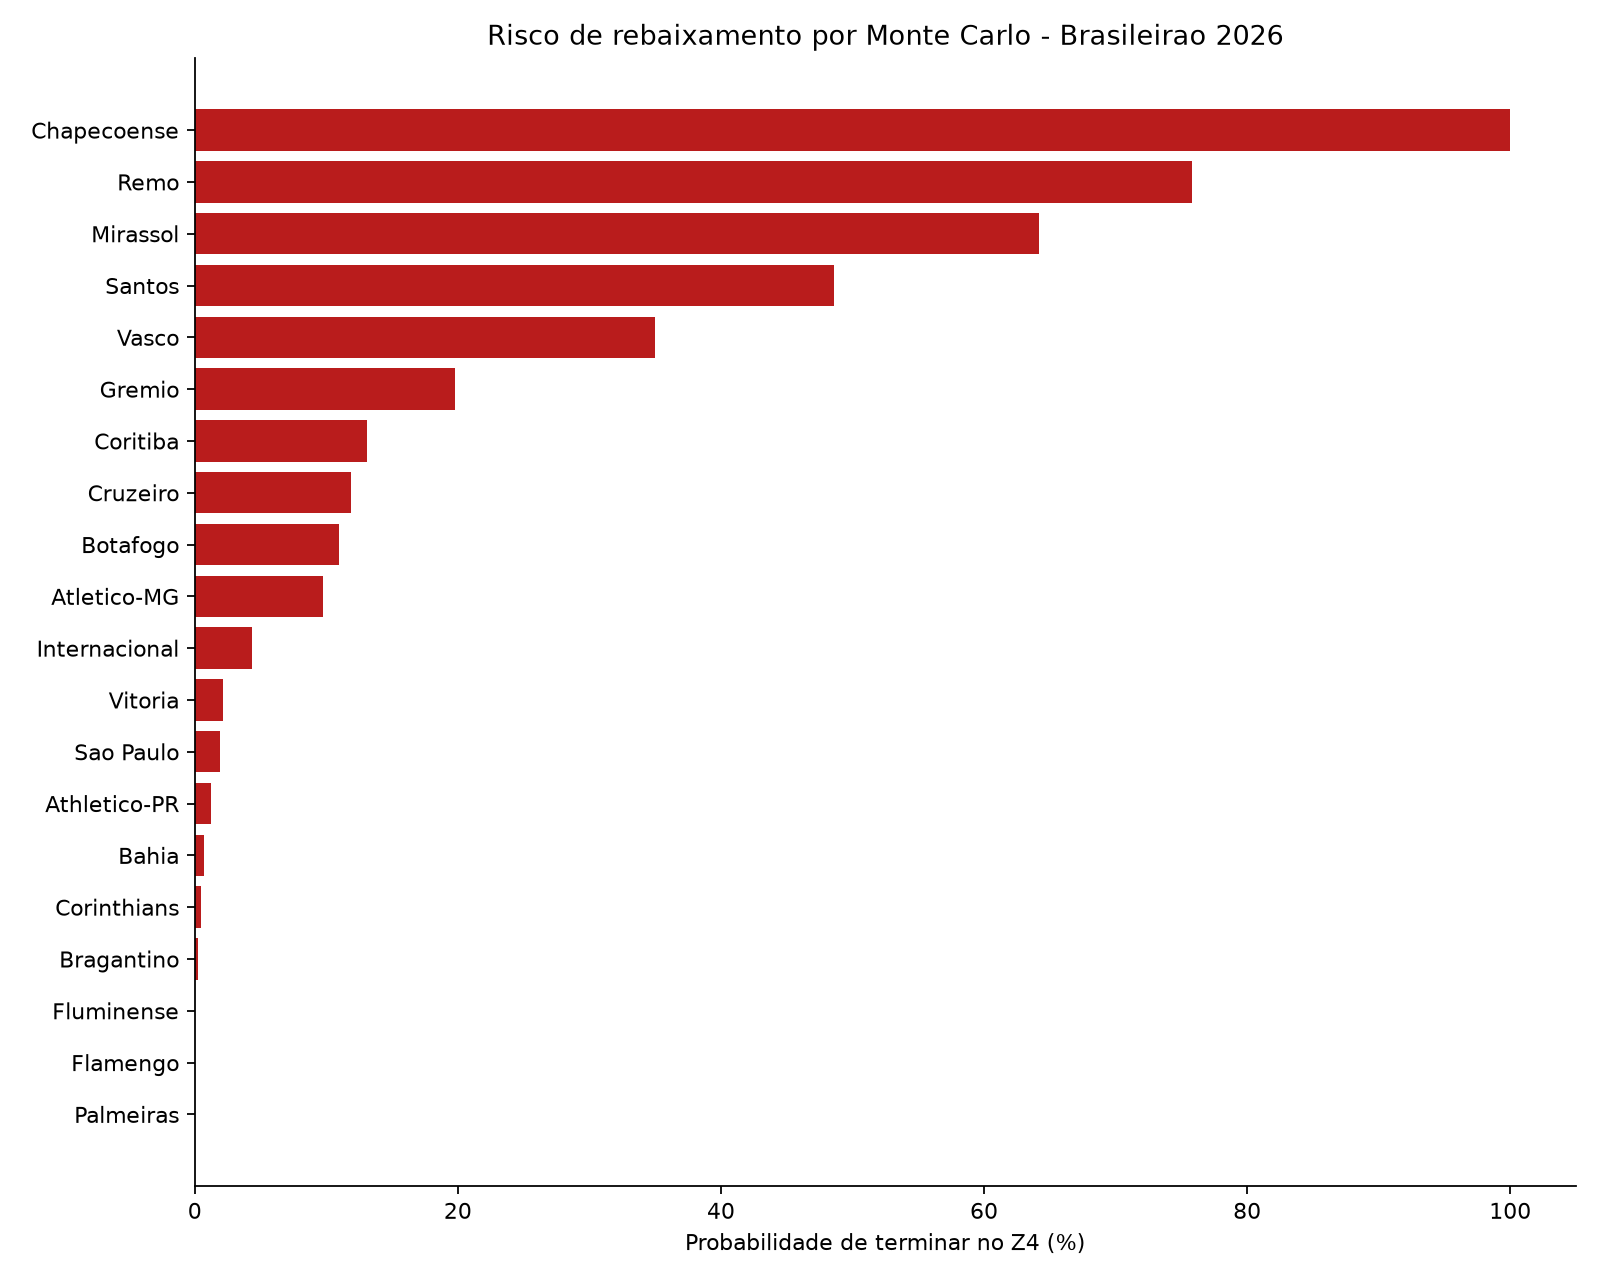
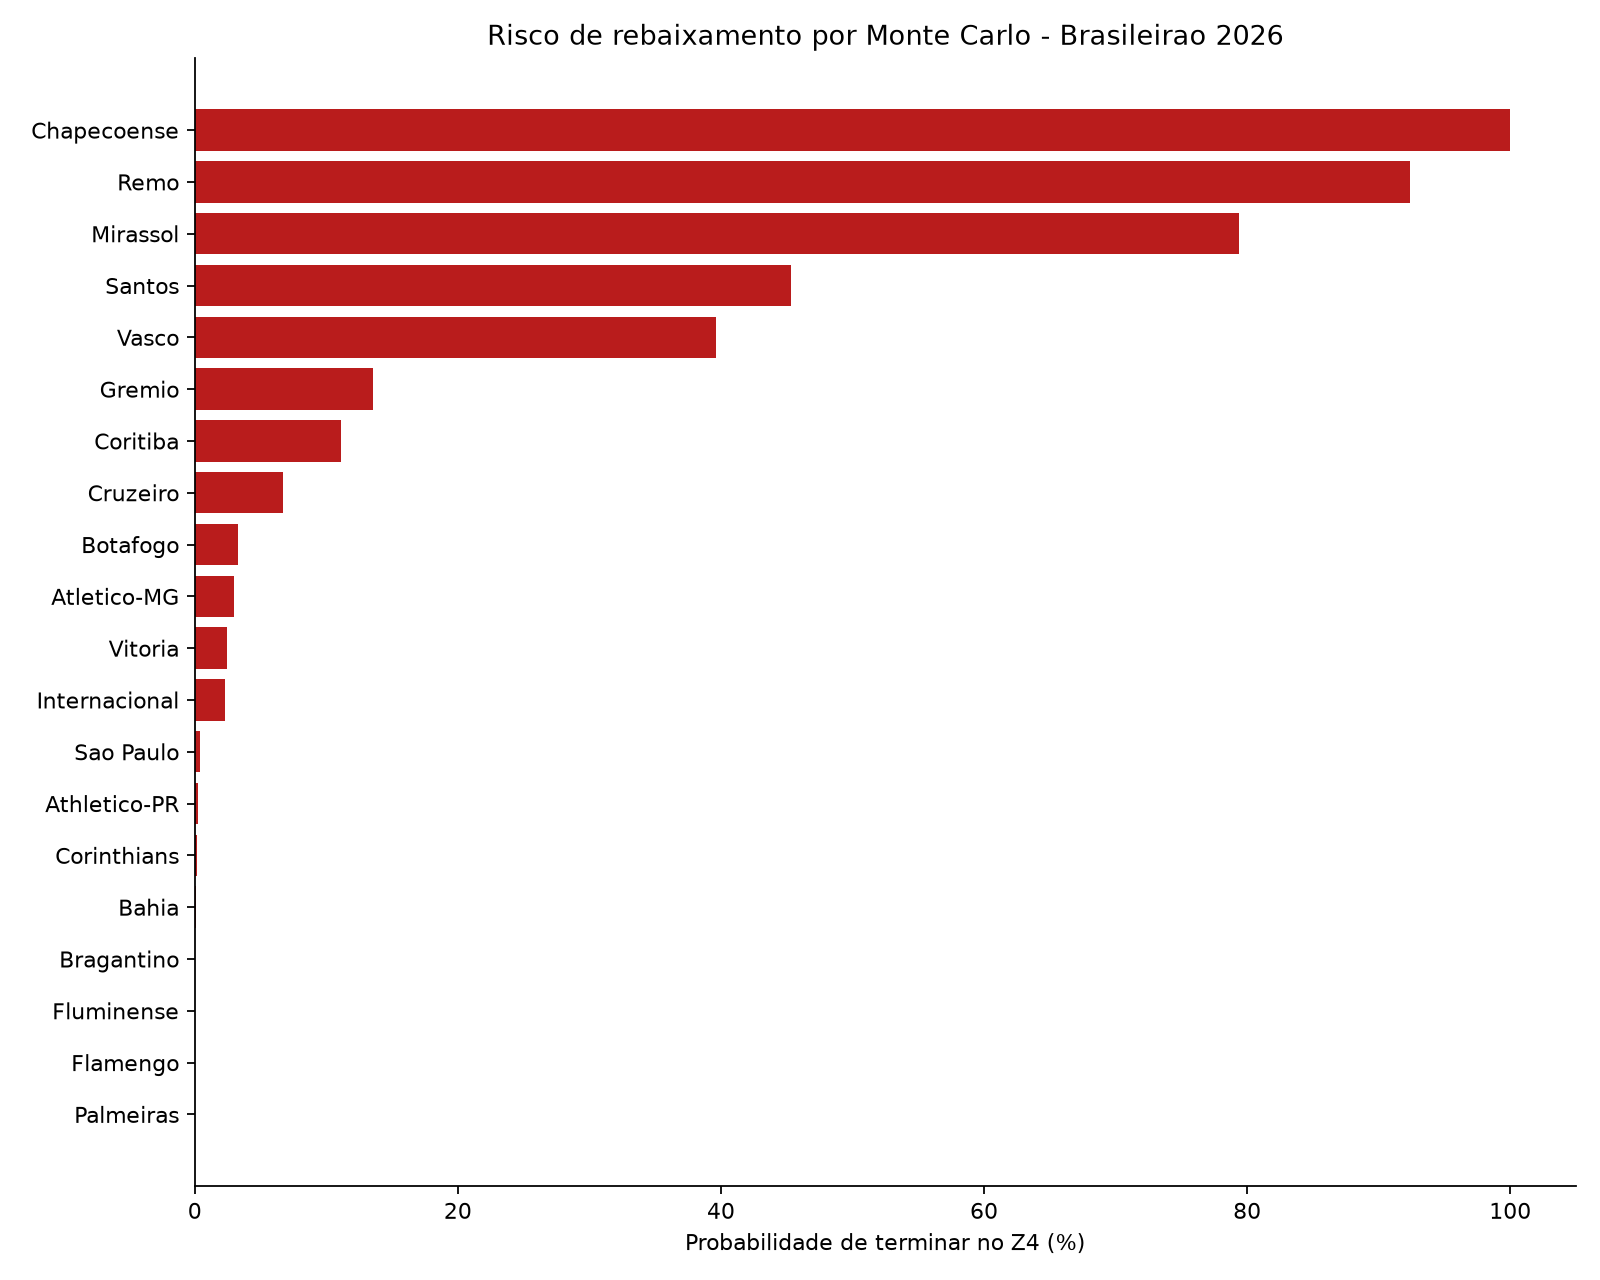
Enriquece simulacao com contexto dos clubes

diff --git a/src/simulacao_monte_carlo.py b/src/simulacao_monte_carlo.py
@@ -13,6 +13,13 @@ from risco_rebaixamento import carregar_partidas
 HOME_ADVANTAGE = 60
 INITIAL_ELO = 1500
 K_FACTOR = 28
+CONTEXT_WEIGHTS = {
+    "squad_strength_0_100": 2.2,
+    "serie_a_last_5": 18.0,
+    "previous_season_score": 0.9,
+    "recent_points_last5": 8.0,
+    "recent_goal_diff_last5": 8.0,
+}
 
 
 def normalizar_time(nome: str) -> str:
@@ -75,6 +82,41 @@ def ajustar_elo_com_snapshot(ratings: dict[str, float], tabela: pd.DataFrame) ->
     return ajustados
 
 
+def carregar_contexto(path: Path | None) -> pd.DataFrame | None:
+    if path is None or not path.exists():
+        return None
+    contexto = pd.read_csv(path)
+    contexto["time"] = contexto["time"].map(normalizar_time)
+    tier_bonus = contexto["previous_season_tier"].map({"A": 0, "B": -12}).fillna(-20)
+    contexto["previous_season_score"] = 21 - contexto["previous_season_position"] + tier_bonus
+    return contexto
+
+
+def ajustar_elo_com_contexto(
+    ratings: dict[str, float],
+    contexto: pd.DataFrame | None,
+) -> dict[str, float]:
+    if contexto is None:
+        return ratings
+    ajustados = ratings.copy()
+    medias = contexto[
+        [
+            "squad_strength_0_100",
+            "serie_a_last_5",
+            "previous_season_score",
+            "recent_points_last5",
+            "recent_goal_diff_last5",
+        ]
+    ].mean()
+    for _, row in contexto.iterrows():
+        time = normalizar_time(row["time"])
+        ajuste = 0.0
+        for col, peso in CONTEXT_WEIGHTS.items():
+            ajuste += (row[col] - medias[col]) * peso
+        ajustados[time] = ajustados.get(time, INITIAL_ELO) + ajuste
+    return ajustados
+
+
 def carregar_tabela_atual(path: Path) -> pd.DataFrame:
     tabela = pd.read_csv(path)
     tabela["time"] = tabela["time"].map(normalizar_time)
@@ -104,6 +146,7 @@ def ordenar_tabela(tabela: pd.DataFrame) -> pd.DataFrame:
 def executar_simulacoes(
     tabela_path: Path,
     fixtures_path: Path,
+    context_path: Path | None,
     output_dir: Path,
     n_simulations: int,
     seed: int,
@@ -111,7 +154,10 @@ def executar_simulacoes(
     partidas = carregar_partidas()
     tabela = carregar_tabela_atual(tabela_path)
     fixtures = pd.read_csv(fixtures_path)
-    ratings = ajustar_elo_com_snapshot(calcular_elo_historico(partidas), tabela)
+    contexto = carregar_contexto(context_path)
+    ratings = calcular_elo_historico(partidas)
+    ratings = ajustar_elo_com_contexto(ratings, contexto)
+    ratings = ajustar_elo_com_snapshot(ratings, tabela)
     rng = np.random.default_rng(seed)
 
     times = tabela["time"].tolist()
@@ -176,6 +222,8 @@ def executar_simulacoes(
             "elo_ajustado": [ratings.get(t, INITIAL_ELO) for t in times],
         }
     ).sort_values("prob_rebaixamento", ascending=False)
+    if contexto is not None:
+        resultado = resultado.merge(contexto, on="time", how="left")
 
     output_dir.mkdir(parents=True, exist_ok=True)
     (output_dir / "graficos").mkdir(exist_ok=True)
@@ -236,6 +284,7 @@ def parse_args() -> argparse.Namespace:
     )
     parser.add_argument("--table-csv", type=Path, default=Path("data/raw/brasileirao_2026_r19_snapshot.csv"))
     parser.add_argument("--fixtures-csv", type=Path, default=Path("data/raw/brasileirao_2026_remaining_fixtures.csv"))
+    parser.add_argument("--context-csv", type=Path, default=Path("data/raw/brasileirao_2026_team_context.csv"))
     parser.add_argument("--output-dir", type=Path, default=Path("output_2026"))
     parser.add_argument("--simulations", type=int, default=10000)
     parser.add_argument("--seed", type=int, default=42)
@@ -247,6 +296,7 @@ if __name__ == "__main__":
     executar_simulacoes(
         tabela_path=args.table_csv,
         fixtures_path=args.fixtures_csv,
+        context_path=args.context_csv,
         output_dir=args.output_dir,
         n_simulations=args.simulations,
         seed=args.seed,

diff --git a/README.md b/README.md
@@ -84,12 +84,26 @@ segunda camada inspirada na arquitetura do
 Elo, probabilidades de vitória/empate/derrota e simulação Monte Carlo.
 
 O simulador calcula um Elo histórico com partidas reais do Brasileirão, ajusta a
-força dos clubes com a tabela atual de 2026, estima as probabilidades de cada
-jogo restante e simula o campeonato até a 38ª rodada.
+força dos clubes com contexto de elenco, histórico recente de Série A,
+classificação da temporada anterior, forma dos últimos cinco jogos e desempenho
+atual de 2026. Depois estima as probabilidades de cada jogo restante e simula o
+campeonato até a 38ª rodada.
 
 ```bash
 python src/simulacao_monte_carlo.py --simulations 10000 --output-dir output_2026
 ```
+
+O arquivo `data/raw/brasileirao_2026_team_context.csv` concentra as variáveis
+que não vêm apenas da tabela atual:
+
+- `serie_a_last_5`: presença recente na Série A;
+- `previous_season_tier` e `previous_season_position`: nível e posição em 2025;
+- `squad_strength_0_100`: proxy editável de força do elenco;
+- `recent_points_last5` e `recent_goal_diff_last5`: forma recente.
+
+Esse arquivo existe justamente para evitar que a simulação seja só uma cópia da
+classificação atual. Em uma versão de produção, ele pode ser substituído por uma
+coleta automática de mercado, elenco, resultados recentes e ratings externos.
 
 Arquivos gerados:
 